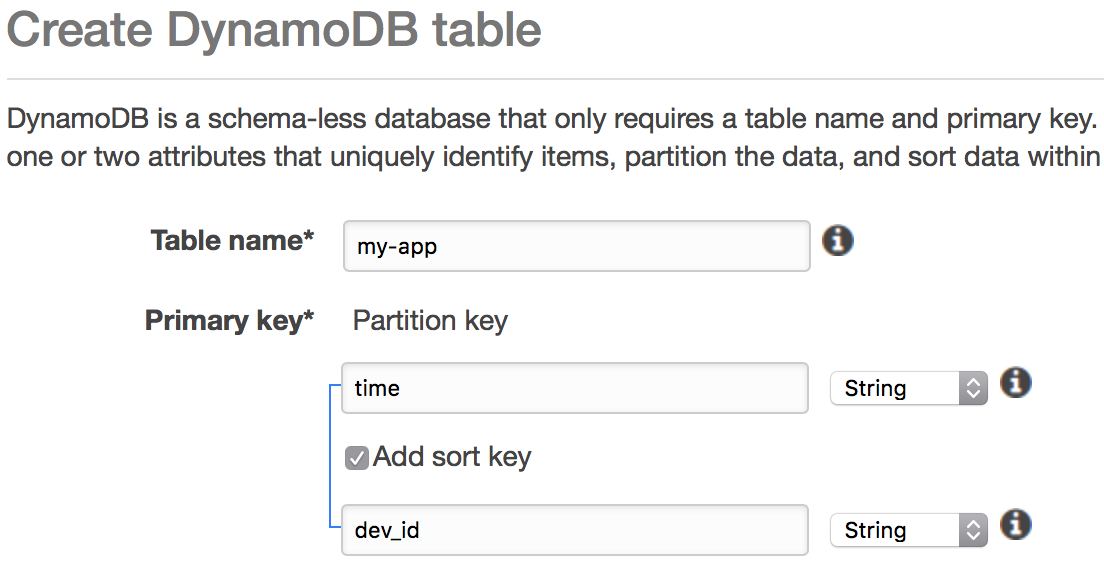
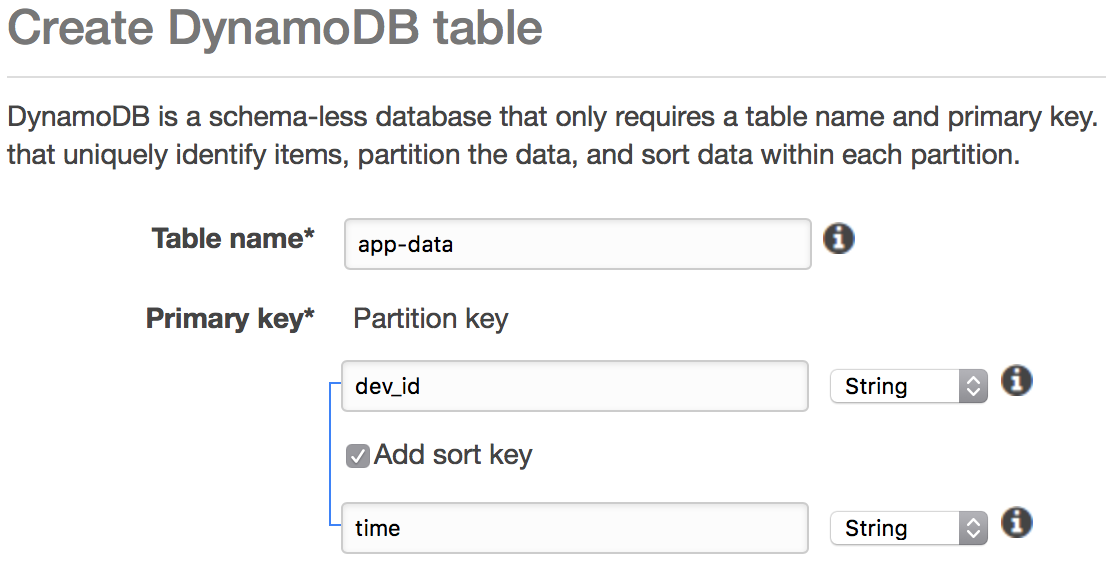
Fix partition key

diff --git a/_content/applications/aws/act-on-data.md b/_content/applications/aws/act-on-data.md
@@ -32,8 +32,8 @@ A common reason to use IoT platforms such as AWS IoT is to store uplink messages
 
    1. Click **Create table**
    2. Enter any **Table name**, for example `my-app`
-   3. As **Partition key**, enter `time`
-   4. Optionally, check **Add sort key** and enter `dev_id` to sort by device ID
+   3. As **Partition key**, enter `dev_id`
+   4. Optionally, check **Add sort key** and enter `time` to sort by time
 
       ![Create table](create-table.png)
 
